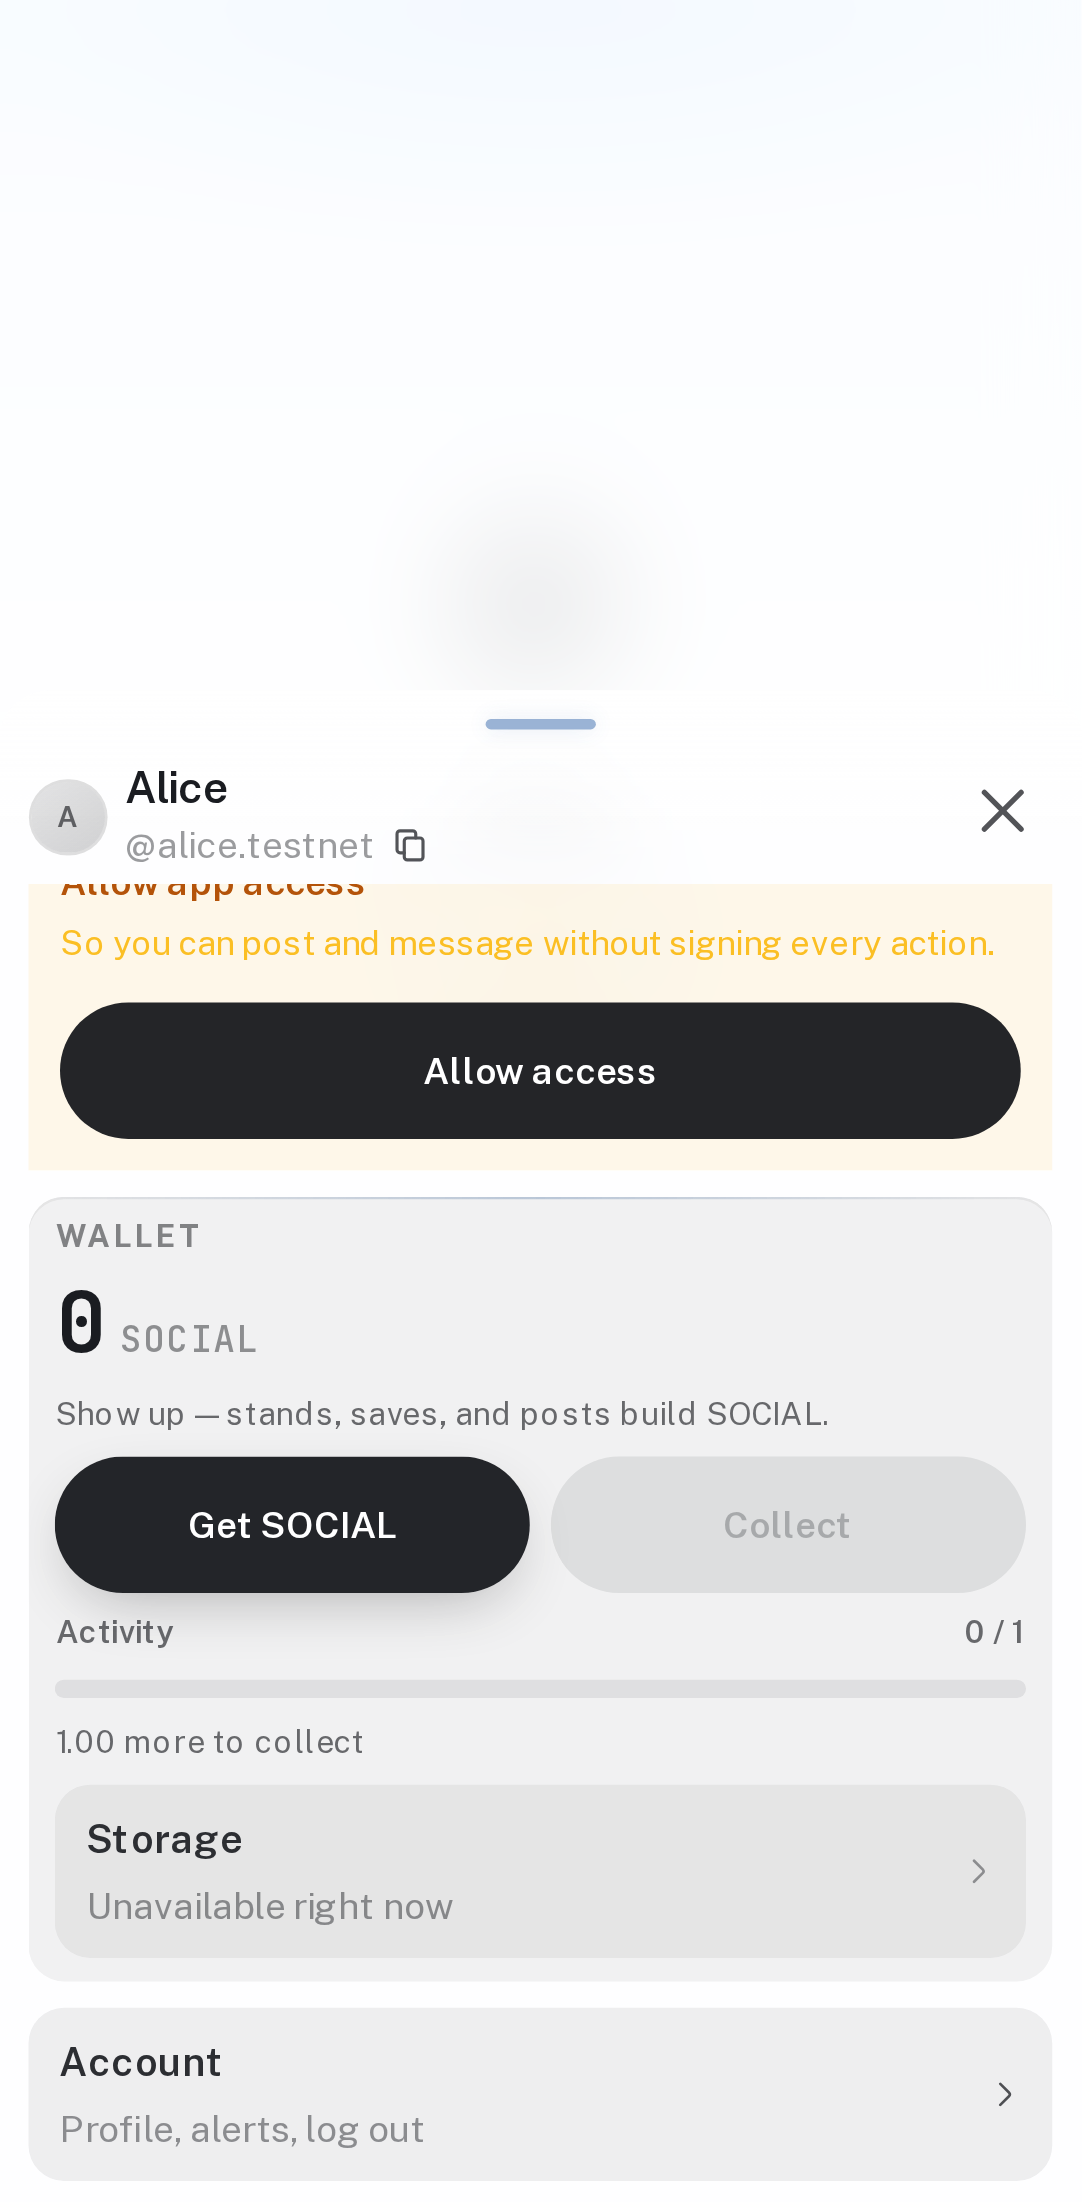
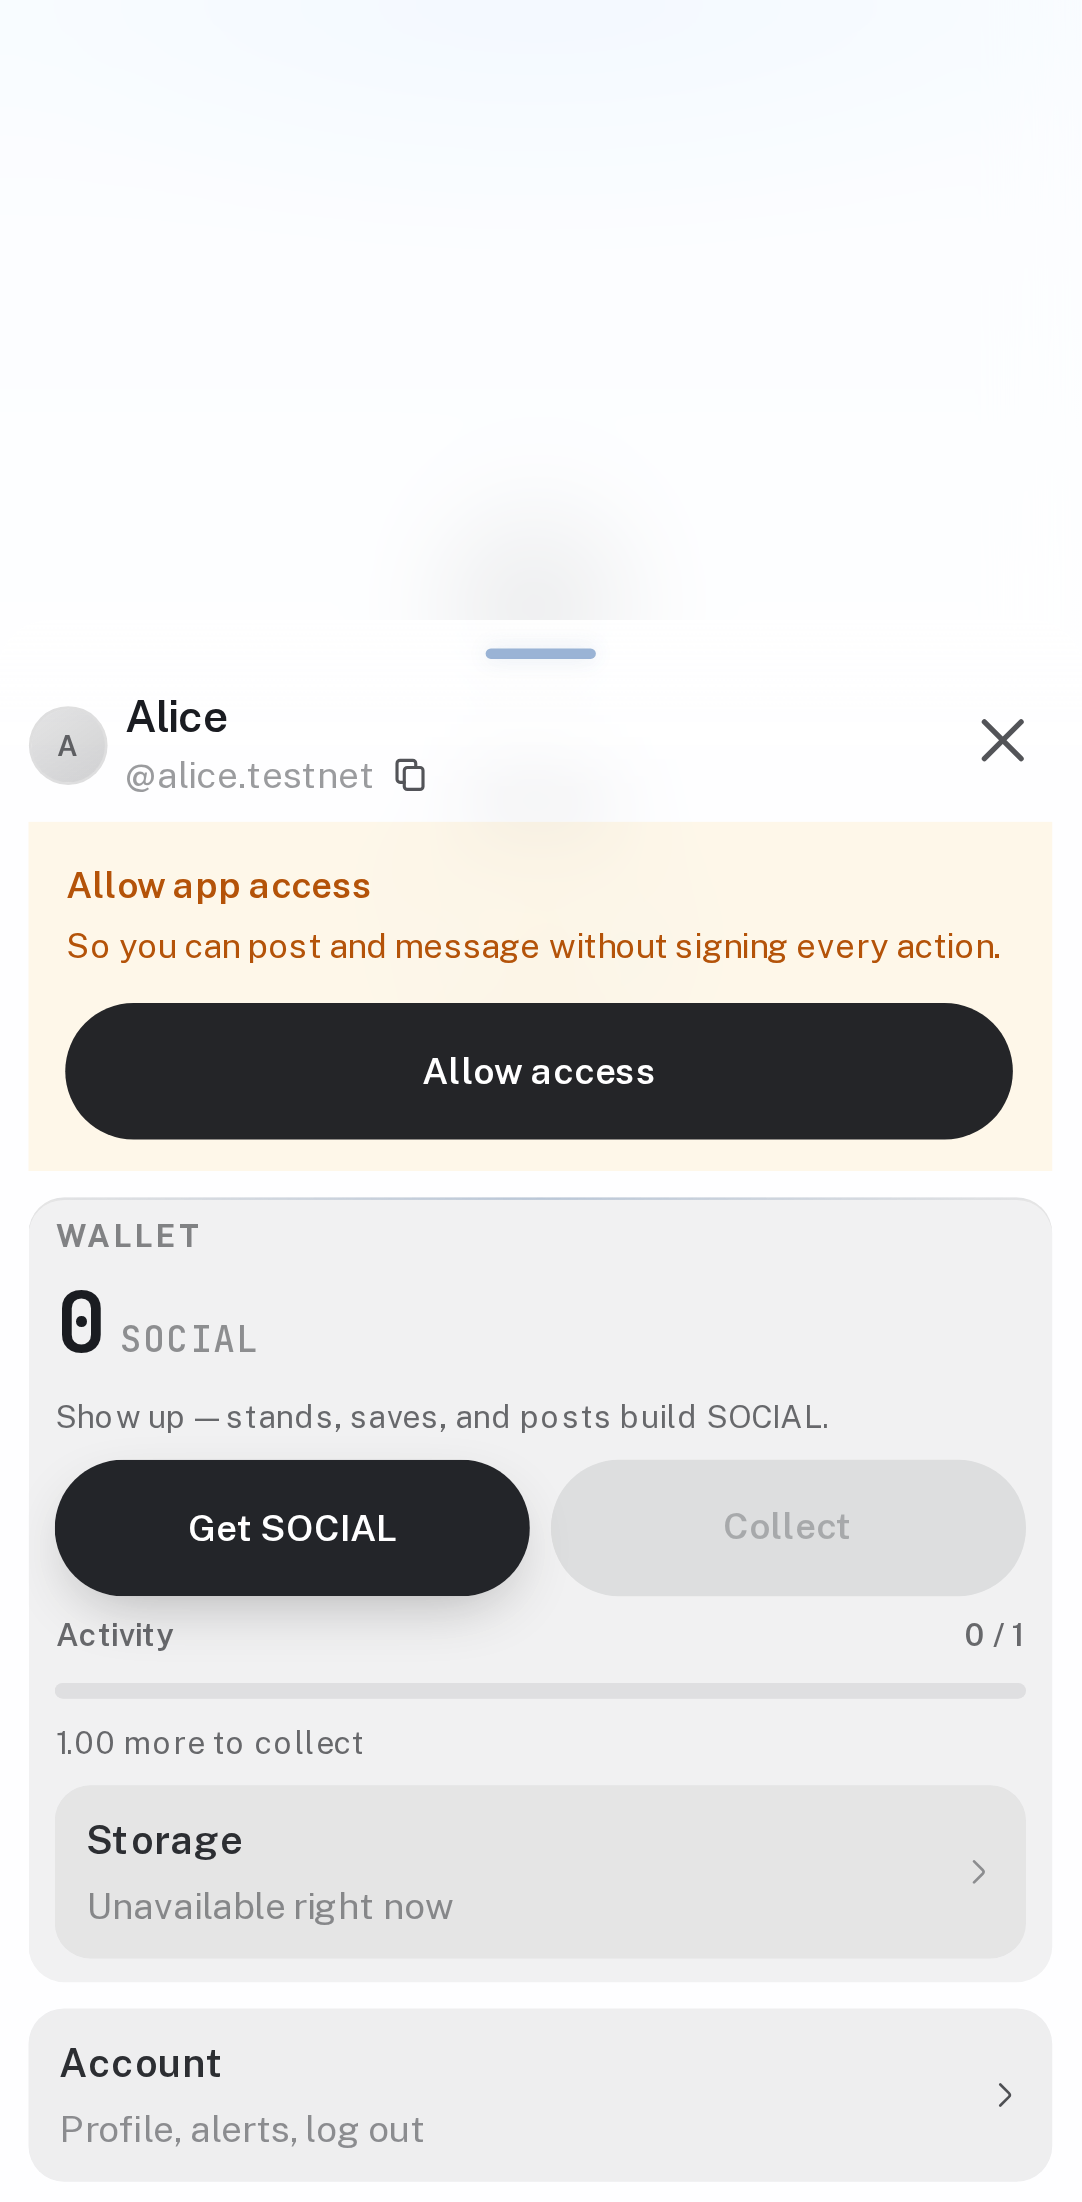
Fit the wallet access card inside the drawer
Use the tall hug cap so the Account row stays on the first paint, and match the existing notice: kit padding, amber ink, and a disabled button while the grant runs.

diff --git a/packages/onsocial-app/src/components/wallet/app-access-banner.tsx b/packages/onsocial-app/src/components/wallet/app-access-banner.tsx
@@ -26,7 +26,7 @@ export function AppAccessBanner() {
   return (
     <OsNoticeCard
       data-app-access-banner=""
-      className="os-notice-card--compact os-notice-card--attention"
+      className="os-notice-card--attention"
       align="start"
       title={copy.title}
       body={copy.body}
@@ -37,6 +37,7 @@ export function AppAccessBanner() {
             variant="primary"
             ready={!busy}
             pending={busy}
+            disabled={busy}
             pendingLabel={
               socialSessionLifecycle === 'expired' ? 'Renewing…' : 'Allowing…'
             }

diff --git a/packages/onsocial-ui/os-notice-card.css b/packages/onsocial-ui/os-notice-card.css
@@ -136,21 +136,14 @@
   text-align: center;
 }
 
-.os-notice-card--compact {
-  gap: var(--os-gutter);
-  padding: var(--os-gutter);
-}
-
+/* Attention wash. Text uses ink so light and dark both stay readable. */
 .os-notice-card--attention {
   background: var(--protocol-amber-bg);
 }
 
-.os-notice-card--attention .os-notice-card-title {
-  color: var(--protocol-amber-ink);
-}
-
+.os-notice-card--attention .os-notice-card-title,
 .os-notice-card--attention .os-notice-card-body {
-  color: var(--protocol-amber);
+  color: var(--protocol-amber-ink);
 }
 
 .os-notice-card-toggle {

diff --git a/packages/onsocial-app/src/components/wallet/app-account-sheet.tsx b/packages/onsocial-app/src/components/wallet/app-account-sheet.tsx
@@ -323,7 +323,7 @@ export function AppAccountSheet({
         zIndex={SHEET_Z.account}
         ariaLabelledBy="account-sheet-title"
         backdropLabel="Close"
-        panelClassName={`account-drawer-panel os-sheet-cap-standard${pageMoodPanelClass}`}
+        panelClassName={`account-drawer-panel os-sheet-cap-tall${pageMoodPanelClass}`}
         panelStyle={accountPanelStyle}
         moodId={pageMoodId ?? undefined}
         bodyClassName={osHugSheetBodyClassName}

diff --git a/docs/briefs/2026-11-13-wallet-session-key-fix.md b/docs/briefs/2026-11-13-wallet-session-key-fix.md
@@ -20,7 +20,26 @@ Copy: `packages/onsocial-app/src/lib/wallet-errors.ts` `mapAppAccessError`, `txT
 
 First connect: `resolveAppConnectRoute` in `packages/onsocial-app/src/lib/app-session-sponsor.ts` bundles whenever the account does not need the drip and this is not the switch-wallet picker. `hasStoredHint` no longer blocks a funded first visit. `walletMayBundleSessionKey` keeps the returning path on the wallet-list filter, and requires `signInWithFunctionCallKey` on the already chosen wallet for a first visit. `resolveBundledAppConnect` in `app-wallet-context.tsx` takes that account id, stored or previewed. A first visit calls `selectWallet`, peeks `getAccounts`, then `connect({ walletId, addFunctionCallKey })` only when the peek is funded and the wallet can add the key. The same pending key and `completeAppSessionAfterConnect` path finish it. The e2e stand-in is `createE2eFirstConnectConnector` in `e2e-mock-signer.ts`.
 
-Wallet drawer: `AppAccessBanner` in `app-account-sheet.tsx`, first child of `.account-card`, above `AccountWalletZone`. Copy comes from `appAccessBannerCopy`. The button calls `useAppAccessGrant`, the same hook as `app-access-sheet.tsx`. `socialSessionSettled` and `socialSessionLifecycle` live on `app-wallet-context.tsx`. Amber compact chrome is `os-notice-card--compact` and `os-notice-card--attention` in `packages/onsocial-ui/os-notice-card.css` (`--os-gutter`, `--protocol-amber`, `--protocol-amber-ink`, `--protocol-amber-bg`). The Account menu row no longer sets `tone="attention"`.
+Wallet drawer neighbours, read with the parent `GlassSheet` (`app-account-sheet.tsx`, `sizing="hug"`, `initialDetent="full"`, `panelClassName` `account-drawer-panel os-sheet-cap-tall`):
+
+- Grip: `.glass-sheet-grip` inside `.glass-sheet-drag` (`glass-sheet.css`). Width `--os-grip-width` (`2.25rem`), thickness `--os-grip-thickness`. Hover opacity `0.65`, `:active` opacity `0.8` and `scaleX(1.05)`. The banner does not replace it.
+- Close: `SheetChromeHeader` → `SheetCloseButton` (`MultiplyIcon` in `OsIconAction`), `closeAriaLabel="Close"`. Header pad is `0 var(--os-sheet-pad-inline) 0.75rem`. Measured hit `38×38`.
+- Identity: `.account-drawer-avatar` (kit avatar, `size="md"`), `.account-drawer-name` (`1.05rem`, `--os-identity-name-weight`), `.account-drawer-face:focus-visible` uses `--os-surface-ring`. Copy control is `.account-drawer-handle` with `CopyIcon` / `CheckIcon` from `@onsocial/ui`. Thumb target `2.75rem`.
+- Safe area: the glass sheet pads with `env(safe-area-inset-*)`. Inline pad is `--os-sheet-pad-inline`, which is `--os-gutter` (`0.75rem`). The hosted root uses `inset: -1px`, so the panel's bottom measures 1px past the layout viewport.
+- Dock: `.portfolio-summon-dock` is `position: fixed`, `z-index: 40`, bottom `--portfolio-dock-bottom`. While a glass sheet is open, `body:has(.glass-sheet-root) … .portfolio-summon-dock` sets `opacity: 0` and `translateY(100% + safe-area)`. Measured opacity `0`. The sheet z-index is `SHEET_Z.account` (55). The banner is inside the sheet body, not on the dock.
+- Balance: `#account-sheet-wallet-zone` / `.account-card-wallet-zone` (`os-surface-panel`, pad `0.55rem 0.65rem`, gap `0.5rem`). Kicker `.account-card-balance-kicker`, value `.account-card-balance-value`, unit `.account-card-balance-unit`. Get SOCIAL is an `OsSheetAction` primary. Collect is `.account-wallet-action.os-surface-chip`, disabled until a claim is ready. Activity uses `--os-stamp-size` and `--protocol-green` when ready. Storage strip uses the existing attention wash when storage is low. The Account row under the zone is `.os-surface-row` with `ChevronRightIcon`.
+- Column: `.account-card` is a column with gap `0.65rem` (`0.5rem` under `42rem` height). The banner is the first child, so that gap is the space before the balance. Nothing new is reserved when the card returns null.
+- Cap: `os-sheet-cap-standard` is `min(88dvh, 36rem, 100%)` (576px). The notice plus the wallet column is taller than that, and the Account row's bottom sat past the panel. The drawer now uses `os-sheet-cap-tall`, the existing editor/commerce cap `min(94dvh, 46rem, 100%)`. Hug still sizes to the content, so a drawer with no notice stays the shorter height. With the notice showing, the body does not scroll (`scrollHeight` equals `clientHeight`).
+- App access row: `AccountShortcutDock` in the Account menu, not the drawer body. It keeps the label and the “Allow this device” hint. `tone="attention"` is gone, so it no longer uses the amber row wash (`color-mix` of `--protocol-amber` at 8% / 14%, ink `--protocol-amber-ink`).
+
+Icons already on this surface: `MultiplyIcon` (close), `CopyIcon` / `CheckIcon` (handle), `ChevronRightIcon` (Account). The notice pattern does not carry an icon.
+
+Notice cards in the repo (`OsNoticeCard`):
+
+- Log out, in this same account family (`account-card-parts.tsx`): `align="start"`, no `shell`, no icon, title + body, footer `OsSheetActions layout="row" tone="frosted-primary" borderless`. Pending dots on the commit button. Cancel is `disabled` while that runs. Focus, hover, and press come from `OsSheetAction` (`:focus-visible` uses `--os-focus-ring`, `:active` and `:disabled` are in `os-sheet-action.css`).
+- Profile load error (`profile-editor-load-error.tsx`): `align="center"`, `shell`, one primary in a stack, no icon. Different surface.
+
+Neither notice carries an icon. The banner's card contains no `svg`. It uses the log-out structure: start align, no shell, the same footer. Spacing is the kit card (`.os-notice-card` gap `0.7rem`, pad `0.9rem 0.9rem 0.75rem`), not a second pad. The only added rule is `.os-notice-card--attention`: fill `--protocol-amber-bg`, title and body `--protocol-amber-ink`. Those tokens swap under `[data-theme='dark']` (`protocol.css`). `--protocol-amber` stays the hue; ink is the text color because the hue fails contrast on a light surface. The resting button is `os-sheet-action os-sheet-action--primary is-ready` and is not `disabled`. While the grant runs it is `pending` and `disabled` together, which is the kit dots state. Focus, press, and disabled styling stay in `os-sheet-action.css` (`:focus-visible` uses `--os-focus-ring`). No new pressed, focus, or loading styles.
 
 Re-scan after the edits: community handoff still calls `grantCommunityAppSession` → `buildSessionGrant` with `apps/<id>/`, so that grant still emits AddKey and `set_key_permission`. Portal welcome-near is a separate helper and was not retargeted. Switch wallet still calls `connect({})` with no key. An already connected `connect()` still resumes through `ensureSocialSession` and does not bundle into that resume.
 
@@ -46,16 +65,21 @@ A funded first visit whose wallet names the account sees one sign-in, and that s
 
 The banner sits in the drawer body, above the Wallet balance, and does not cover the page. Chrome, Safari, and Brave were captured with Playwright. Chrome is Chromium. Safari is WebKit. Brave is not installed, so that column is Chromium with a Brave user agent. iPhone is the Playwright iPhone 14 descriptor (390×844). Samsung is a 360×800 Galaxy-class viewport. Pixel is the Playwright Pixel 7 descriptor (412×915). No physical handsets.
 
-iPhone Chrome, before → after. Drawer was 392×442 at y 222. After, 392×576 at y 88. The banner is 368×150 at y 142, the same width as the wallet zone (368). The balance stays at y 322, x 20, height 40. The banner’s bottom (292) sits 8px above the wallet zone (y 300).
+Opened with no extra scroll, after the enter animation, with the balance settled (`0` SOCIAL and the empty hint). Chrome, Safari, and Brave agree on each device. The banner does not overlap the balance, the close button, or the grip. The Account row sits inside the panel. The body does not scroll. The panel bottom is 1px past the layout viewport from the hosted `inset: -1px`.
 
-Samsung Chrome. Drawer 362×461 at y 339 becomes 362×576 at y 224. Banner 338×150 at y 257, matching the wallet width 338. Balance y 440 → 441, height 48. Banner bottom 407, wallet zone y 417.
+iPhone (layout viewport 390×664). Grip 42×4 at (174, 74), close 38×38 at (341, 90), banner 368×152 at (11, 141), balance value 15×40 at (20, 323), wallet zone 368×282 at (11, 300), Account row 368×66 at (11, 590) ending at 656. The banner bottom (292) is above the wallet zone.
 
-Pixel Chrome. Drawer 414×461 at y 378 becomes 414×576 at y 263. Banner 390×131 at y 315, matching the wallet width 390. The wider line wraps to one row, so the card is 19px shorter than on the 360 and 390 widths. Balance y 479 → 480. Banner bottom 446, wallet zone y 456.
+Samsung (360×800). Banner 338×152 at (11, 256). Account row ends at 792. Panel ends at 801.
 
-Safari and Brave match those widths. Safari balance text is 2–3px wider (77→80 on Samsung and Pixel). Positions otherwise follow the same stack: banner, then wallet zone, then balance inside it.
+Pixel (412×839). Banner 390×133 at (11, 313). The wider line is one row, so the card is 19px shorter. Account row ends at 831. Panel ends at 840.
+
+Light ink is `rgb(180, 83, 9)` (`--protocol-amber-ink` `#b45309`) on `rgba(251, 191, 36, 0.1)`. Dark is `rgb(251, 191, 36)` on `rgba(251, 191, 36, 0.12)`.
+
+The sheet frost is translucent. On WebKit the page type can read through the amber wash. `elementsFromPoint` on the banner still hits the notice first. The Next.js dev badge was hidden for these shots. It is not in the production build.
 
 ![iPhone Chrome before](2026-11-13-wallet-session-key/before-iphone-chrome.png)
 ![iPhone Chrome after](2026-11-13-wallet-session-key/after-iphone-chrome.png)
+![iPhone Chrome after, dark](2026-11-13-wallet-session-key/after-iphone-chrome-dark.png)
 ![iPhone Safari before](2026-11-13-wallet-session-key/before-iphone-safari.png)
 ![iPhone Safari after](2026-11-13-wallet-session-key/after-iphone-safari.png)
 ![iPhone Brave before](2026-11-13-wallet-session-key/before-iphone-brave.png)
@@ -85,6 +109,6 @@ Route tests: a funded first visit with no stored hint bundles; an unfunded first
 
 Banner copy tests: hidden while unsettled, Allow when missing, Renew when expired, hidden when active.
 
-The banner commit is 29 files, +379 / −118, including these 18 screenshots. Source and glossary are the rest of that diff.
+The drawer uses the tall hug cap so the Account row stays in the first paint. The notice uses the kit pad, ink on the title and the body, and `disabled` while the grant is pending. Screenshots are the 18 device shots plus the dark iPhone Chrome shot. The branch against `main` is 47 files, +1636 / −230.
 
-`pnpm check:push` ran through the pre-push hook, not `--no-verify`. The Job 2 hook (head `44001a85`) passed with Playwright 383 passed, 5 flaky, 1 skipped. The Job 3 hook passed with 508 test files, 3544 unit tests, and Playwright 389 passed, 1 flaky, 1 skipped. The remaining flake is the collection supply line matching two nodes. The banner hook result follows that commit.
+`pnpm check:push` ran through the pre-push hook, not `--no-verify`. The Job 2 hook (head `44001a85`) passed with Playwright 383 passed, 5 flaky, 1 skipped. The Job 3 hook passed with 508 test files, 3544 unit tests, and Playwright 389 passed, 1 flaky, 1 skipped. The remaining flake is the collection supply line matching two nodes. The banner and this audit go out on the next push of this branch.
